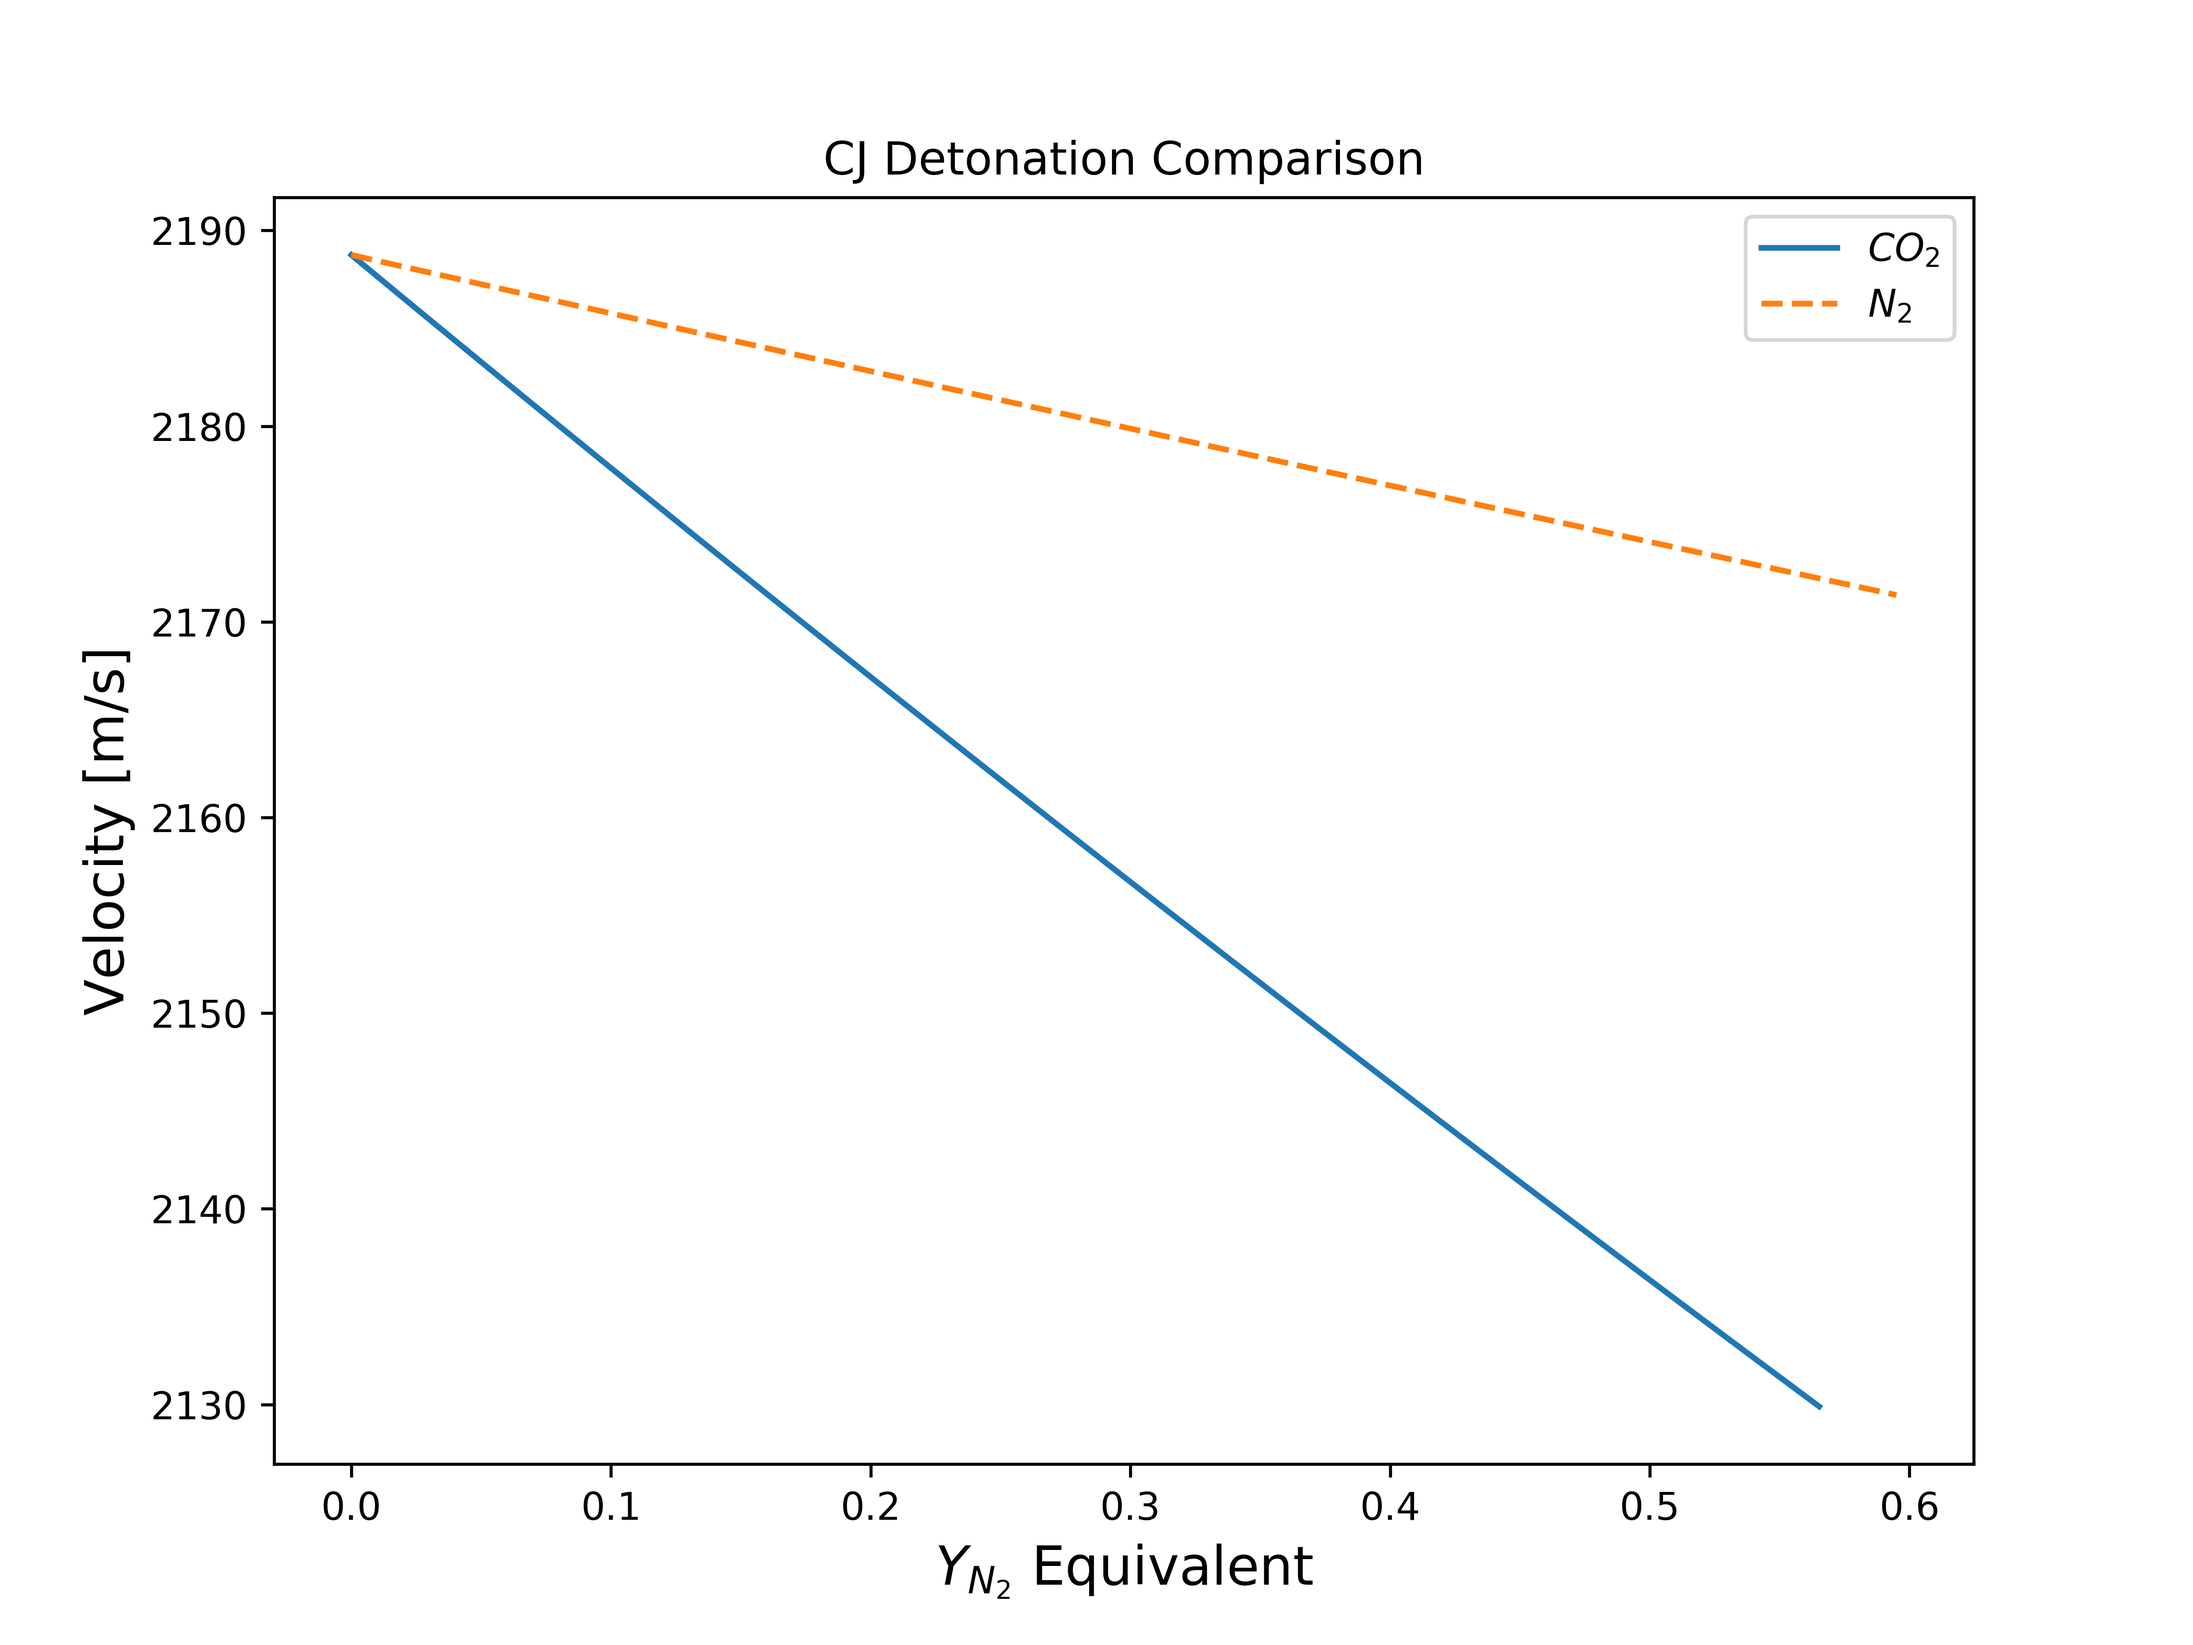
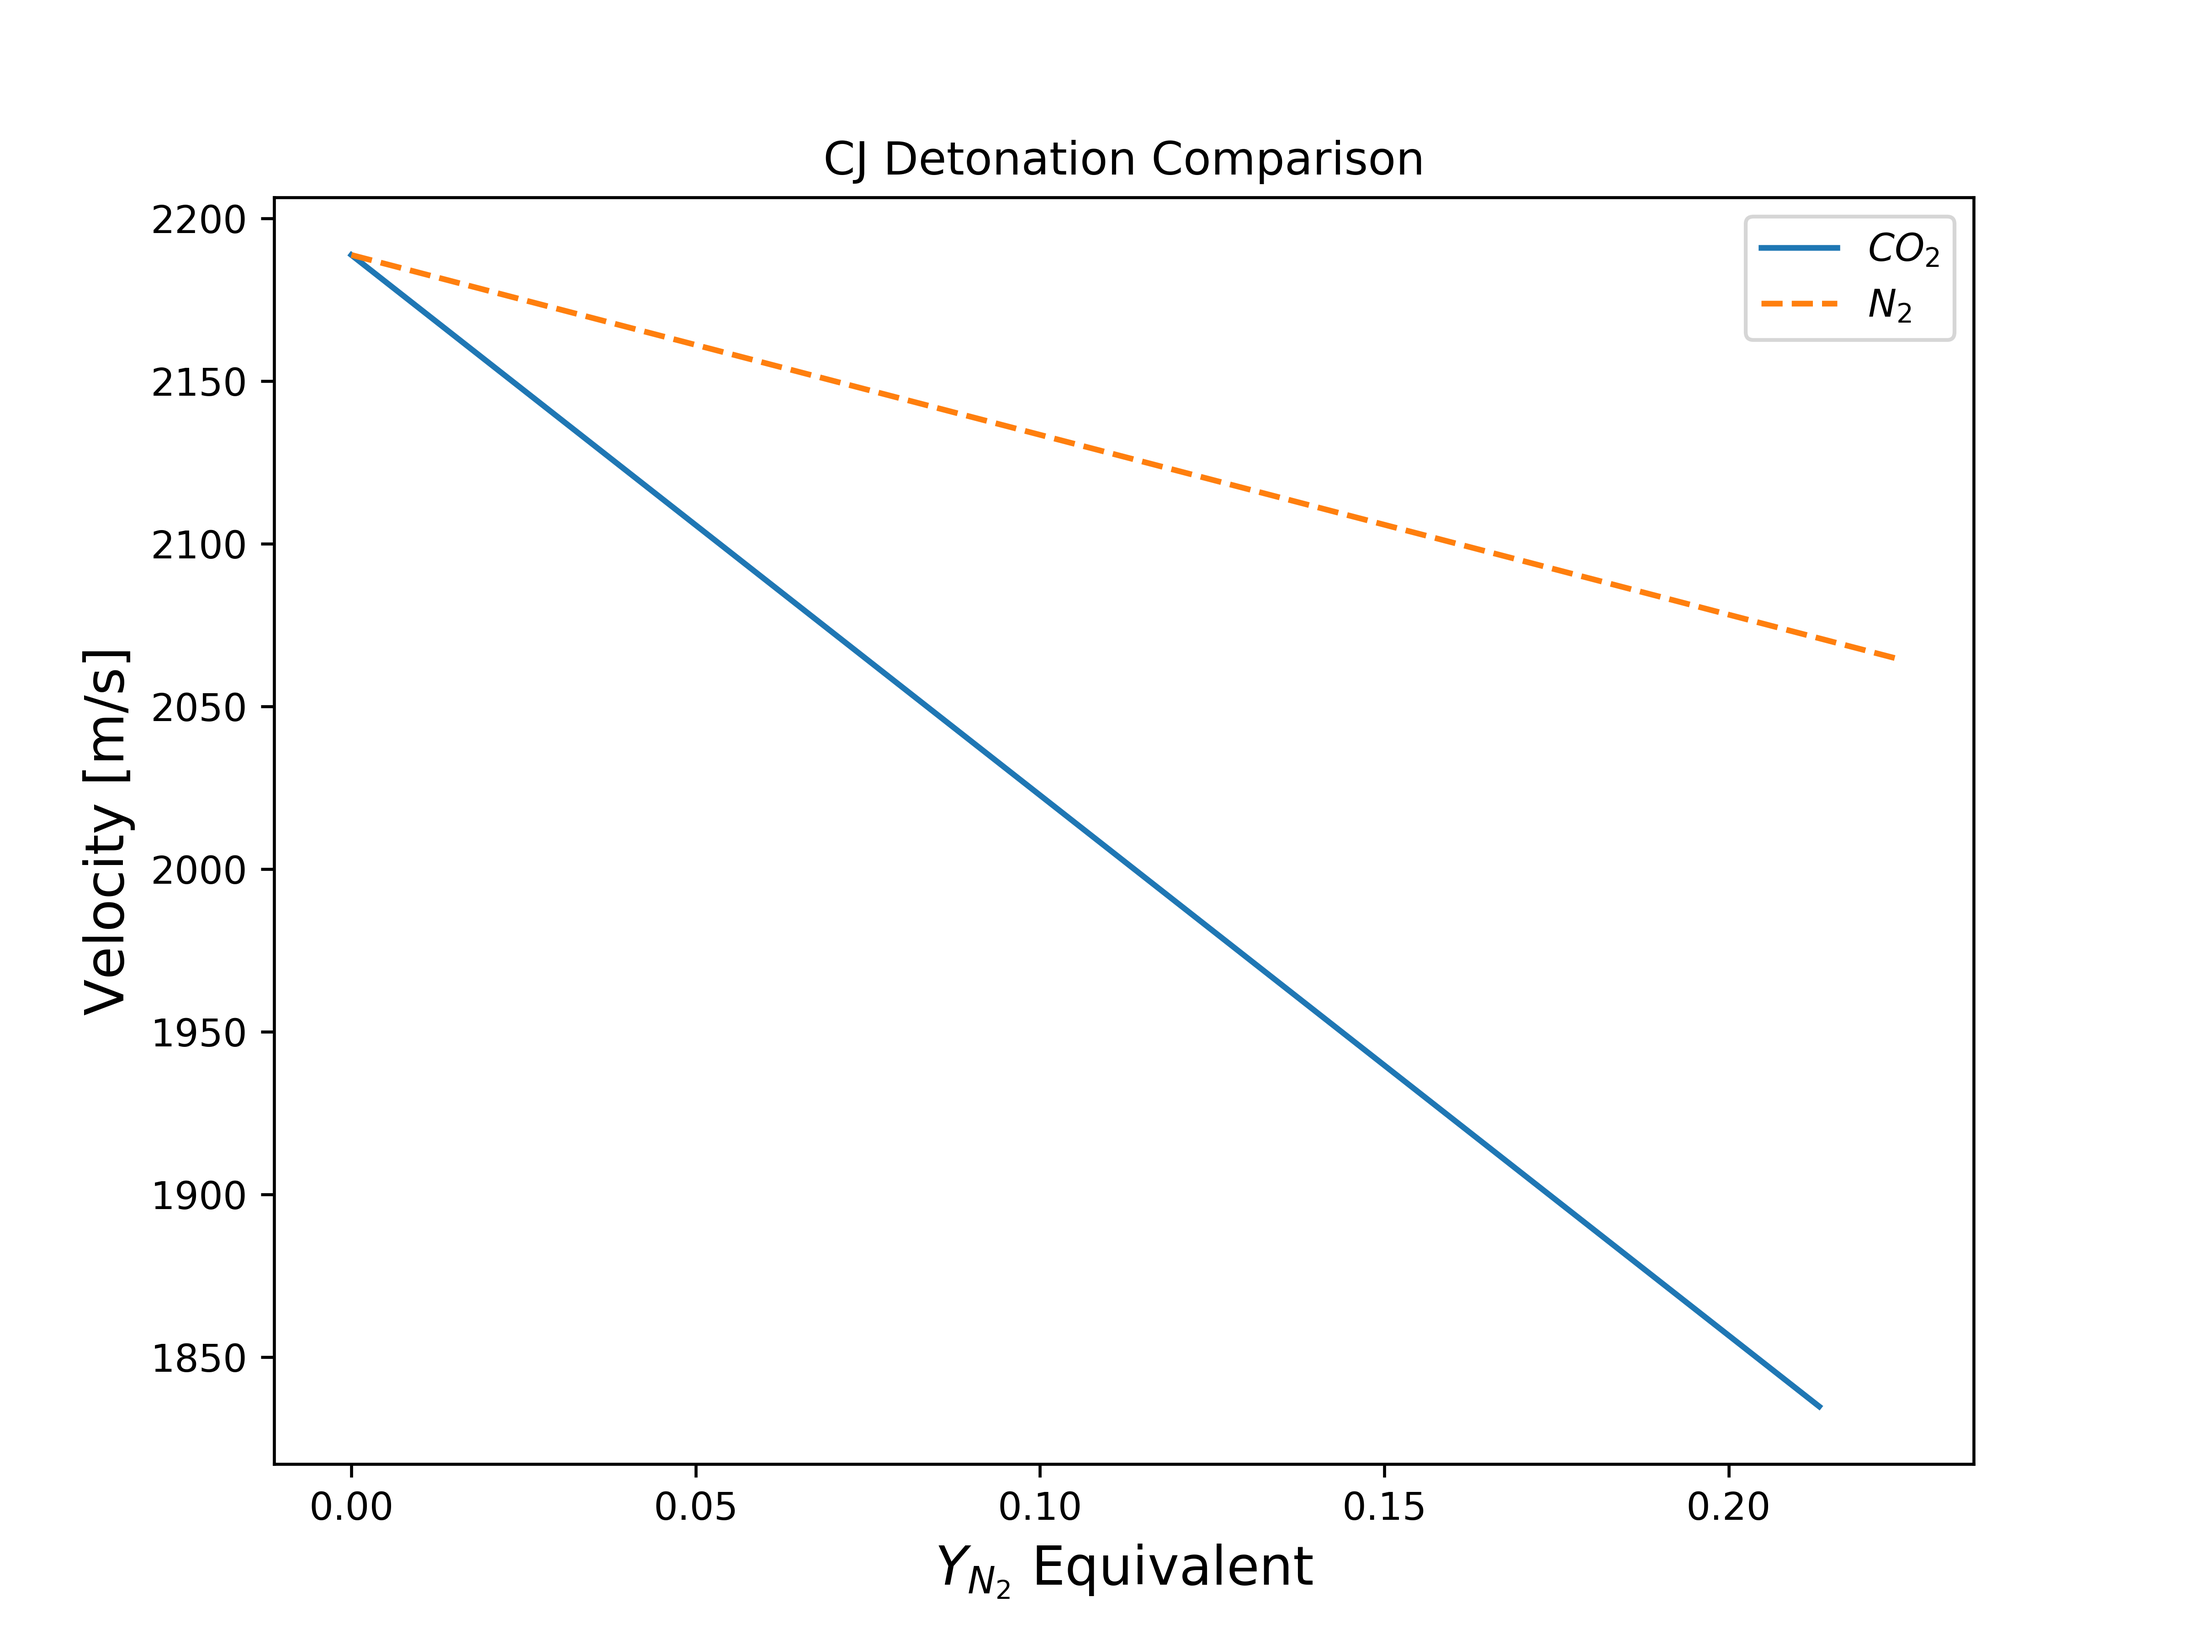
added mass fraction and data file output capabilities

diff --git a/CJ_calculation.py b/CJ_calculation.py
@@ -38,10 +38,19 @@ cj_n2 = []
 cj_co2 = []
 gamma_n2 = []
 gamma_co2 = []
-dilution_range = np.arange(0.0,0.6,0.05)
+dilution_range_moles = np.arange(0.0,20.0,0.005)
+MW_prop = 44.1 #g/mol
+MW_n2o = 44.013 #g/mol
+MW_n2 = 28.0134 #g.mol
+MW_co2 = 44.01 #g/mol
+
+MW_mix_n2 = (1.*MW_prop + 10.*MW_n2o + dilution_range_moles*MW_n2)/(11.0 + dilution_range_moles)
+MW_mix_co2 = (1.*MW_prop + 10.*MW_n2o + dilution_range_moles*MW_co2)/(11.0 + dilution_range_moles)
+#print len(MW_mix_n2)
 #print len(dilution_range)
+Y_n2 = dilution_range_moles*MW_n2/((11.0+dilution_range_moles)*MW_mix_n2)
 mech = 'CSMmech7_2.cti'
-for i in dilution_range:
+for i in dilution_range_moles:
 	N2_dilution.append('C3H8:1 N2O:10 N2:'+str(i))
 	CO2_dilution.append('C3H8:1 N2O:10 CO2:'+str(i))
 
@@ -49,31 +58,36 @@ for i in dilution_range:
 
 
 if __name__ == '__main__':
-	for it in xrange(len(dilution_range)):
-		gamma_n2.append(get_gamma(p,T,N2_dilution[it],mech))
-		gamma_co2.append(get_gamma(p,T,CO2_dilution[it],mech))
-	print gamma_n2
-	print gamma_co2
+	#for it in xrange(len(dilution_range_moles)):
+	#	gamma_n2.append(get_gamma(p,T,N2_dilution[it],mech))
+	#	gamma_co2.append(get_gamma(p,T,CO2_dilution[it],mech))
+	#print gamma_n2
+	#print gamma_co2
 	#a = get_cj(p, T, N2_dilution, mech)
 	#print cj_co2
-	#for bleh in xrange(len(dilution_range)):
-	#	blockPrint()
-	#	cj_n2.append(get_cj(p,T,N2_dilution[bleh],mech))
-	#	cj_co2.append(get_cj(p,T,CO2_dilution[bleh],mech))
-	#	enablePrint()
+	csv = open('data.csv',"w")
+	csv.write("moles, CJ_n2, CJ_co2\n")
+	for bleh in xrange(len(dilution_range_moles)):
+		blockPrint()
+		cj_n2.append(get_cj(p,T,N2_dilution[bleh],mech))
+		cj_co2.append(get_cj(p,T,CO2_dilution[bleh],mech))
+		enablePrint()
+		row = str(dilution_range_moles[bleh]) +"," + str(cj_n2[bleh]) + "," + str(cj_co2[bleh]) + "\n"
+	csv.write(row)
 	
+	csv.close()
 #plt = matplotlib.pyplot
 	
-	#fig = plt.figure(num =None, figsize = (8,6), dpi = 600)
-	#plt.plot(dilution_range*.95,cj_co2)
-	#plt.plot(dilution_range,cj_n2, '--')
+	fig = plt.figure(num =None, figsize = (8,6), dpi = 600)
+	plt.plot(Y_n2*.95,cj_co2)
+	plt.plot(Y_n2,cj_n2, '--')
 #plt.plot(values['x'], values['p'], 'k')
-	#plt.legend((r'$CO_{2}$',r'$N_{2}$'))
-	#plt.title("CJ Detonation Comparison")
-	#plt.xlabel(r'$Y_{N_{2}}$ Equivalent', fontsize=14)
-	#plt.ylabel('Velocity [m/s]',fontsize=14)
+	plt.legend((r'$CO_{2}$',r'$N_{2}$'))
+	plt.title("CJ Detonation Comparison")
+	plt.xlabel(r'$Y_{N_{2}}$ Equivalent', fontsize=14)
+	plt.ylabel('Velocity [m/s]',fontsize=14)
 #plt.show()
-	#plt.savefig('cj_speeds.png')
+	plt.savefig('cj_speeds.png')
 #for i in xrange(len(self.species)):
 #string_list.append(self.species[i] + ':' + str(self.concentration[i,x,y]))
 #gas.X = ', '.join(string_list)
